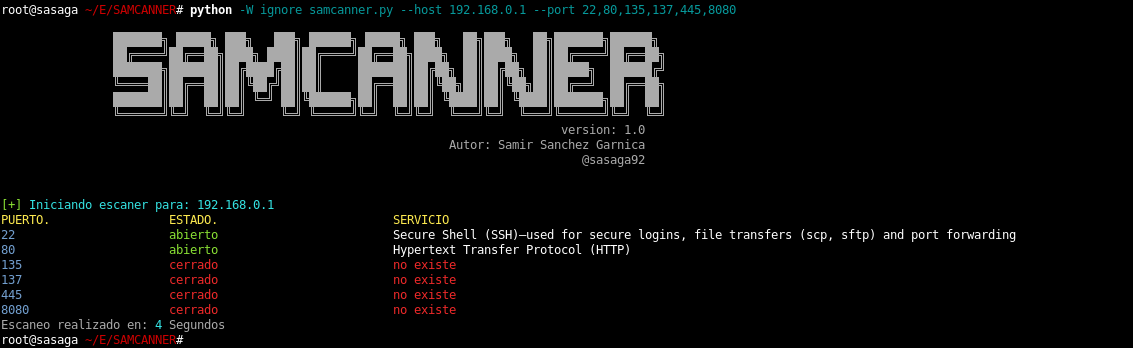
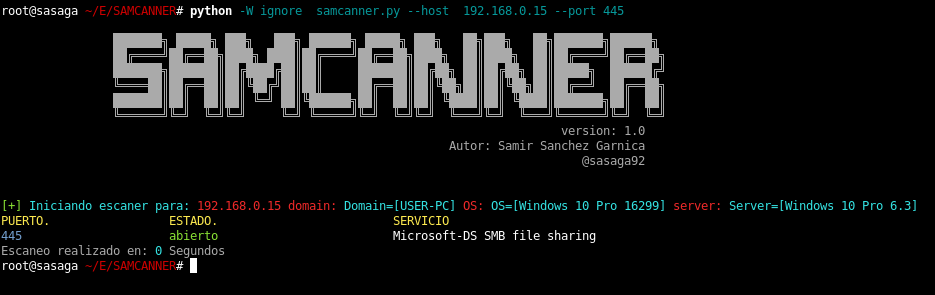
samcanner

Changed region(s): [[0.093, 0.0915, 0.7134, 0.5797], [0.0, 0.5492, 0.9925, 1.0], [0.0, 0.0, 0.6824, 0.061]]

diff --git a/samcanner.py b/samcanner.py
@@ -8,6 +8,8 @@ import platform
 import os
 from time import time
 from multiprocessing.pool import Pool
+from commands import getoutput
+
 
 common_ports = {
 	5: 'Remote Job Entry',
@@ -81,6 +83,7 @@ common_ports = {
 	177: 'X Display Manager Control Protocol (XDMCP)',
 	179: 'BGP (Border Gateway Protocol)',
 	194: 'IRC (Internet Relay Chat)',
+	199: 'smux',
 	201: 'AppleTalk Routing Maintenance',
 	209: 'The Quick Mail Transfer Protocol',
 	213: 'IPX',
@@ -163,7 +166,7 @@ common_ports = {
 	652: 'DTCP, Dynamic Tunnel Configuration Protocol',
 	654: 'AODV (Ad-hoc On-demand Distance Vector)',
 	655: 'IEEE MMS (IEEE Media Management System)[13][14]',
-	657: 'IBM RMC (Remote monitoring and Control) protocol, used by System p5 AIX Integrated Virtualization Manager (IVM)[15] and Hardware Management Console to connect managed logical partitions (LPAR)to enable dynamic partition reconfiguration',
+	657: 'IBM RMC (Remote monitoring and Control) protocol, used by System p5 AIX Integrated Virtualization Manager (IBM)',
 	660: 'Mac OS X Server administration',
 	665: 'sun-dr, Remote Dynamic Reconfiguration',
 	666: 'Doom, first online first-person shooter',
@@ -212,6 +215,7 @@ common_ports = {
 	902: 'VMware Server Console (UDP from server being managed to management console)',
 	904: 'VMware Server Alternate (if 902 is in use, i.e. SUSE linux)',
 	911: 'Network Console on Acid (NCA)—local tty redirection over OpenSSH',
+	912: 'apex-mesh',
 	953: 'Domain Name System (DNS) RDNC Service',
 	981: 'SofaWare Technologies Remote HTTPS management for firewall devices running embedded Check PointFireWall-1 software',
 	989: 'FTPS Protocol (data): FTP over TLS/SSL',
@@ -228,6 +232,9 @@ common_ports = {
 	1029: 'Often utilized by Microsoft DCOM services',
 	1058: 'nim, IBM AIX Network Installation Manager (NIM)',
 	1059: 'nimreg, IBM AIX Network Installation Manager(NIM)',
+	1072: 'cardax',
+	1077: 'imgames',
+	1078: 'avocent-proxy',
 	1080: 'SOCKS proxy',
 	1085: 'WebObjects',
 	1098: 'rmiactivation, RMI Activation',
@@ -256,6 +263,7 @@ common_ports = {
 	1293: 'IPSec (Internet Protocol Security)',
 	1311: 'Dell Open Manage HTTPS',
 	1313: 'Xbiim (Canvii server)',
+	1334: 'writesrv',
 	1337: 'PowerFolder P2P Encrypted File Synchronization Program',
 	1337: 'WASTE Encrypted File Sharing Program',
 	1352: 'IBM Lotus Notes/Domino Remote Procedure Call(RPC) protocol',
@@ -278,6 +286,7 @@ common_ports = {
 	1524: 'ingreslock, ingres',
 	1526: 'Oracle database common alternative for listener',
 	1533: 'IBM Sametime IM—Virtual Places Chat Microsoft SQL Server',
+	1542: 'gridgen-elmd',
 	1547: 'Laplink',
 	1550: 'Gadu-Gadu (direct client-to-client)',
 	1581: 'MIL STD 2045-47001 VMF',
@@ -288,12 +297,14 @@ common_ports = {
 	1677: 'Novell GroupWise clients in client/server access mode',
 	1701: 'Layer 2 Forwarding Protocol (L2F) & Layer 2 Tunneling Protocol (L2TP)',
 	1716: 'America’s Army Massively multiplayer online role-playing game (MMORPG)',
+	1720: 'h323hostcall',
 	1723: 'Microsoft Point-to-Point Tunneling Protocol (PPTP)',
 	1725: 'Valve Steam Client',
 	1755: 'Microsoft Media Services (MMS, ms-streaming)',
 	1761: 'cft-0',
 	1761: 'Novell Zenworks Remote Control utility',
 	1762: 'cft-1 to cft-7',
+	1801: 'msmq',
 	1812: 'radius, RADIUS authentication protocol',
 	1813: 'radacct, RADIUS accounting protocol',
 	1863: 'MSNP (Microsoft Notification Protocol), used by the .NET Messenger Service and a number of Instant Messaging clients',
@@ -337,6 +348,7 @@ common_ports = {
 	2105: 'IBM MiniPay',
 	2105: 'eklogin Kerberos encrypted remote login (rlogin)',
 	2105: 'zephyr-hm-srv Project Athena Zephyr Notification Service hm-serv connection (should use port 2102)',
+	2107: 'msmq-mgmt',
 	2144: 'Iron Mountain LiveVault Agent',
 	2145: 'Iron Mountain LiveVault Agent',
 	2161: 'APC Agent',
@@ -446,6 +458,7 @@ common_ports = {
 	4125: 'Microsoft Remote Web Workplace administration',
 	4226: 'Aleph One (game)',
 	4224: 'Cisco CDP Cisco discovery Protocol',
+	4353: 'f5-iquery',
 	4500: 'IPSec NAT Traversal (RFC 3947)',
 	4534: 'Armagetron Advanced default server port',
 	4569: 'Inter-Asterisk eXchange',
@@ -495,6 +508,7 @@ common_ports = {
 	5351: 'NAT Port Mapping Protocol—client-requested configuration for inbound connections through network address translators',
 	5353: 'Multicast DNS (MDNS)',
 	5355: 'LLMNR—Link-Local Multicast Name Resolution, allows hosts to perform name resolution for hosts on the same local link (only provided by Windows Vistaand Server 2008)',
+	5357: 'wsdapi',
 	5402: 'mftp, Stratacache OmniCast content delivery system MFTP file sharing protocol',
 	5405: 'NetSupport',
 	5421: 'Net Support 2',
@@ -505,9 +519,13 @@ common_ports = {
 	5499: 'Hotline tracker server discovery',
 	5500: 'VNC remote desktop protocol—for incoming listening viewer, Hotline control connection',
 	5501: 'Hotline file transfer connection',
+	5504: 'fcp-cics-gw1',
 	5517: 'Setiqueue Proxy server client for SETI@Homeproject',
 	5555: 'Freeciv versions up to 2.0, Hewlett Packard Data Protector, SAP',
 	5556: 'Freeciv',
+	5560: 'isqlplus',
+	5584: 'bis-web',
+	5586: 'att-mt-sms',
 	5631: 'pcANYWHEREdata, Symantec pcAnywhere (version 7.52 and later[32])[33] data',
 	5632: 'pcANYWHEREstat, Symantec pcAnywhere (version 7.52 and later) status',
 	5666: 'NRPE (Nagios)',
@@ -520,6 +538,7 @@ common_ports = {
 	5900: 'Virtual Network Computing (VNC) remote desktop protocol (used by Apple Remote Desktop and others)',
 	5938: 'TeamViewer[34] remote desktop protocol',
 	5984: 'CouchDB database server',
+	5985: 'wsman',
 	5999: 'CVSup [35] file update tool',
 	6000: 'X11—used between an X client and server over the network',
 	6001: 'X11—used between an X client and server over the network',
@@ -528,6 +547,7 @@ common_ports = {
 	6050: 'Brightstor Arcserve Backup',
 	6050: 'Nortel Software',
 	6051: 'Brightstor Arcserve Backup',
+	6055: 'X11',
 	6072: 'iOperator Protocol Signal Port',
 	6086: 'PDTP—FTP like file server in a P2P network',
 	6100: 'Vizrt System',
@@ -577,6 +597,7 @@ common_ports = {
 	7002: 'Default for BEA WebLogic Server‘s HTTPS server, though often changed during installation',
 	7005: 'Default for BMC Software CONTROL-M/Server and CONTROL-M/Agent for Agent-to-Server, though often changed during installation',
 	7006: 'Default for BMC Software CONTROL-M/Server and CONTROL-M/Agent for Server-to-Agent, though often changed during installation',
+	7009: 'afs3-rmtsys',
 	7010: 'Default for Cisco AON AMC (AON Management Console) [2]',
 	7025: 'Zimbra LMTP [mailbox]—local mail delivery',
 	7047: 'Zimbra conversion server',
@@ -591,8 +612,11 @@ common_ports = {
 	7670: 'BrettspielWelt BSW Boardgame Portal',
 	7777: 'iChat server file transfer proxy',
 	7777: 'Default used by Windows backdoor program tini.exe',
+	7680: 'pando-pub',
 	7831: 'Default used by Smartlaunch Internet Cafe Administration[37] software',
 	7915: 'Default for YSFlight server [3]',
+	7937: 'nsrexecd',
+	7938: 'lgtomapper',
 	8000: 'iRDMI (Intel Remote Desktop Management Interface)[38]—sometimes erroneously used instead of port 8080',
 	8000: 'Commonly used for internet radio streams such as those using SHOUTcast',
 	8002: 'Cisco Systems Unified Call Manager Intercluster',
@@ -632,6 +656,7 @@ common_ports = {
 	8701: 'SoftPerfect Bandwidth Manager',
 	8702: 'SoftPerfect Bandwidth Manager',
 	8767: 'TeamSpeak—default',
+	8834: 'nessus-xmlrpc',
 	8880: 'cddbp-alt, CD DataBase (CDDB) protocol (CDDBP) alternate',
 	8880: 'cddbp-alt, CD DataBase (CDDB) protocol (CDDBP) alternate',
 	8880: 'WebSphere Application Server SOAP connector default',
@@ -650,6 +675,7 @@ common_ports = {
 	9001: 'cisco-xremote router configuration',
 	9001: 'Tor network default',
 	9001: 'DBGp Proxy',
+	9002: 'dynamid',
 	9009: 'Pichat Server—Peer to peer chat software',
 	9030: 'Tor often used',
 	9043: 'WebSphere Application Server Administration Console secure',
@@ -812,6 +838,27 @@ common_ports = {
 
 service = ""
 
+def enum_os(target):
+	global dominio
+	global sistema_operativo
+	global servidor
+	#Uses null session as opposed to username and password
+	cmd = "smbclient //%s/IPC$ -U %s%%%s -t 1 -c exit" % (target, '', '')
+	for line in getoutput(cmd).splitlines():
+		if "Domain=" in line:
+			result = line.split('] ')
+			dominio = script_colors("c",result[0] +"]")
+			sistema_operativo = script_colors("c",result[1] +"]")
+			servidor = script_colors("c",result[2])
+		elif "NT_STATUS_LOGON_FAILURE" in line:
+			print script_colors("red","Authentication Failed")
+		else:
+			dominio = script_colors("c","Not found")
+			sistema_operativo = script_colors("c","Not found")
+			servidor = script_colors("c","Not found")
+
+
+
 def check_host_online(direccion):
     if (platform.system()=="Windows"):
         ping = "ping -n 1"
@@ -862,6 +909,7 @@ def script_colors(color_type, text):
         return text
     return  text
 
+
 def banner_welcome():
     banner = '''
 		███████╗ █████╗ ███╗   ███╗ ██████╗ █████╗ ███╗   ██╗███╗   ██╗███████╗██████╗ 
@@ -892,7 +940,7 @@ def escanear(direccion, puertos):
     if not check_host_online(host):
         print script_colors("red","[-] ") + script_colors("c", "este host no esta en linea :(")
         exit(1)
-    print script_colors("g", "[+] ") + script_colors("c", "Iniciando escaner para: " + direccion)
+    print script_colors("g", "[+] ") + script_colors("c", "Iniciando escaner para: ") + script_colors("red",host) + script_colors("red"," domain: ") + dominio + script_colors("red"," OS: ") + sistema_operativo + script_colors("red"," server: ") + servidor
     print script_colors("yellow", "PUERTO.                 ESTADO.                         SERVICIO")
 
     for puerto in puertos:
@@ -964,13 +1012,12 @@ def scan_range(port):
         sock.close()
 
     except socket.gaierror:
-        print "Hostname could not be resolved"
+        print script_colors("red","host imposible de resolver")
         sys.exit()
 
     except socket.error:
-        print "Could not connect to server"
+        print script_colors("red","imposible conectar al host remoto")
         sys.exit()
-
 
 def main():
     print banner_welcome()
@@ -983,6 +1030,7 @@ def main():
     listaPuertos = str(args.puertos).split(",")
     range_port = str(args.range_ports).split("-")
 
+    enum_os(host)
     if args.host and args.puertos:
     	escanear(host,listaPuertos)
     elif args.host and args.range_ports:
@@ -992,7 +1040,7 @@ def main():
 
     	global ip_host 	
     	ip_host = host
-    	print script_colors("g", "[+] ") + script_colors("c", "Iniciando escaner para: " + host)
+    	print script_colors("g", "[+] ") + script_colors("c", "Iniciando escaner para: ") + script_colors("red",host) + script_colors("red"," domain: ") + dominio + script_colors("red"," OS: ") + sistema_operativo + script_colors("red"," server: ") + servidor
     	print script_colors("yellow", "PUERTO.                 ESTADO.                         SERVICIO")
     	p = Pool(50)
     	tiempo_inicial = time()
@@ -1000,6 +1048,7 @@ def main():
     	tiempo_final = time()
     	tiempo_ejecucion = tiempo_final - tiempo_inicial
     	print script_colors("lgray","Escaneo realizado en: ") + script_colors("c", str(int(tiempo_ejecucion))) + script_colors("lgray"," Segundos")
+
     else:
         print script_colors("yellow","[-] ") + script_colors("c", "Requiere parametros --host host --port puerto/s o --range ")
         exit(0)

diff --git a/README.md b/README.md
@@ -2,6 +2,8 @@
 
 SAMCANNER es un escaner de puertos TCP facil de utilizar basado en conexion por socket, programado en multihilos y multiprocessing para agilizar un poco la velocidad de estado de los puertos.
 
+En sistemas windows te permite concoer el nombre del equipo el sistema operativo y el servidor que correo dicho sistema
+
 
 Ejemplo de uso con rango de puertos
 ```
